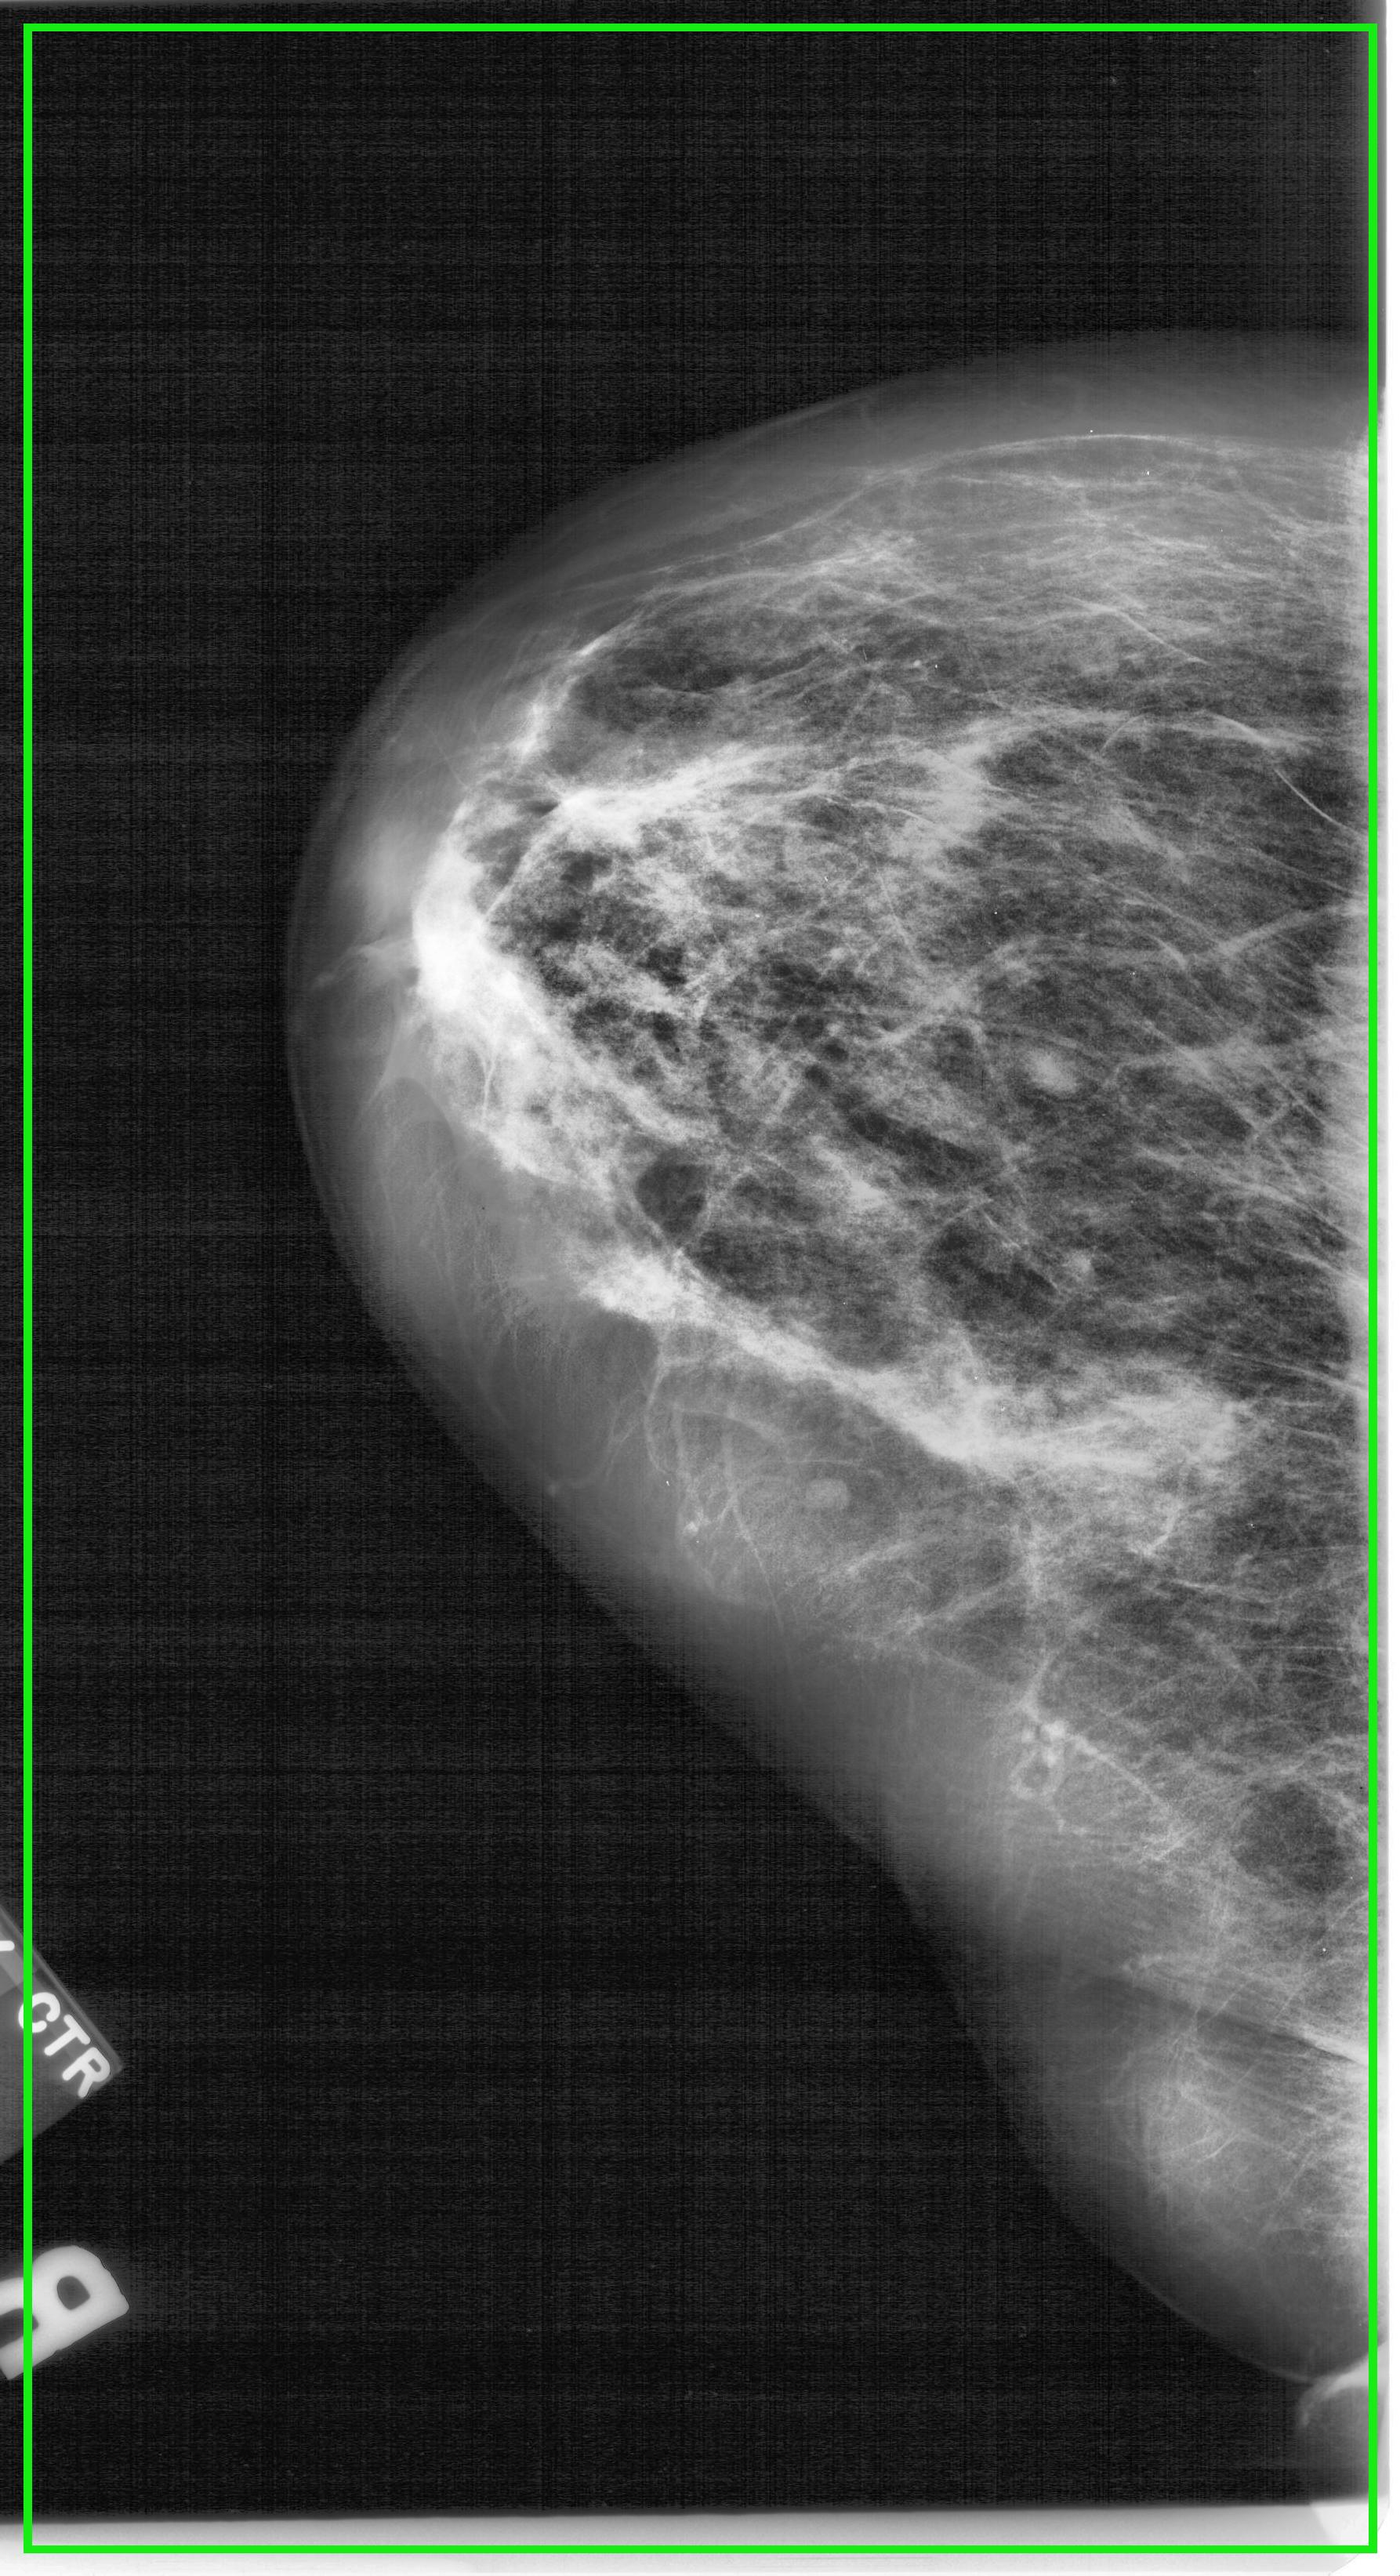
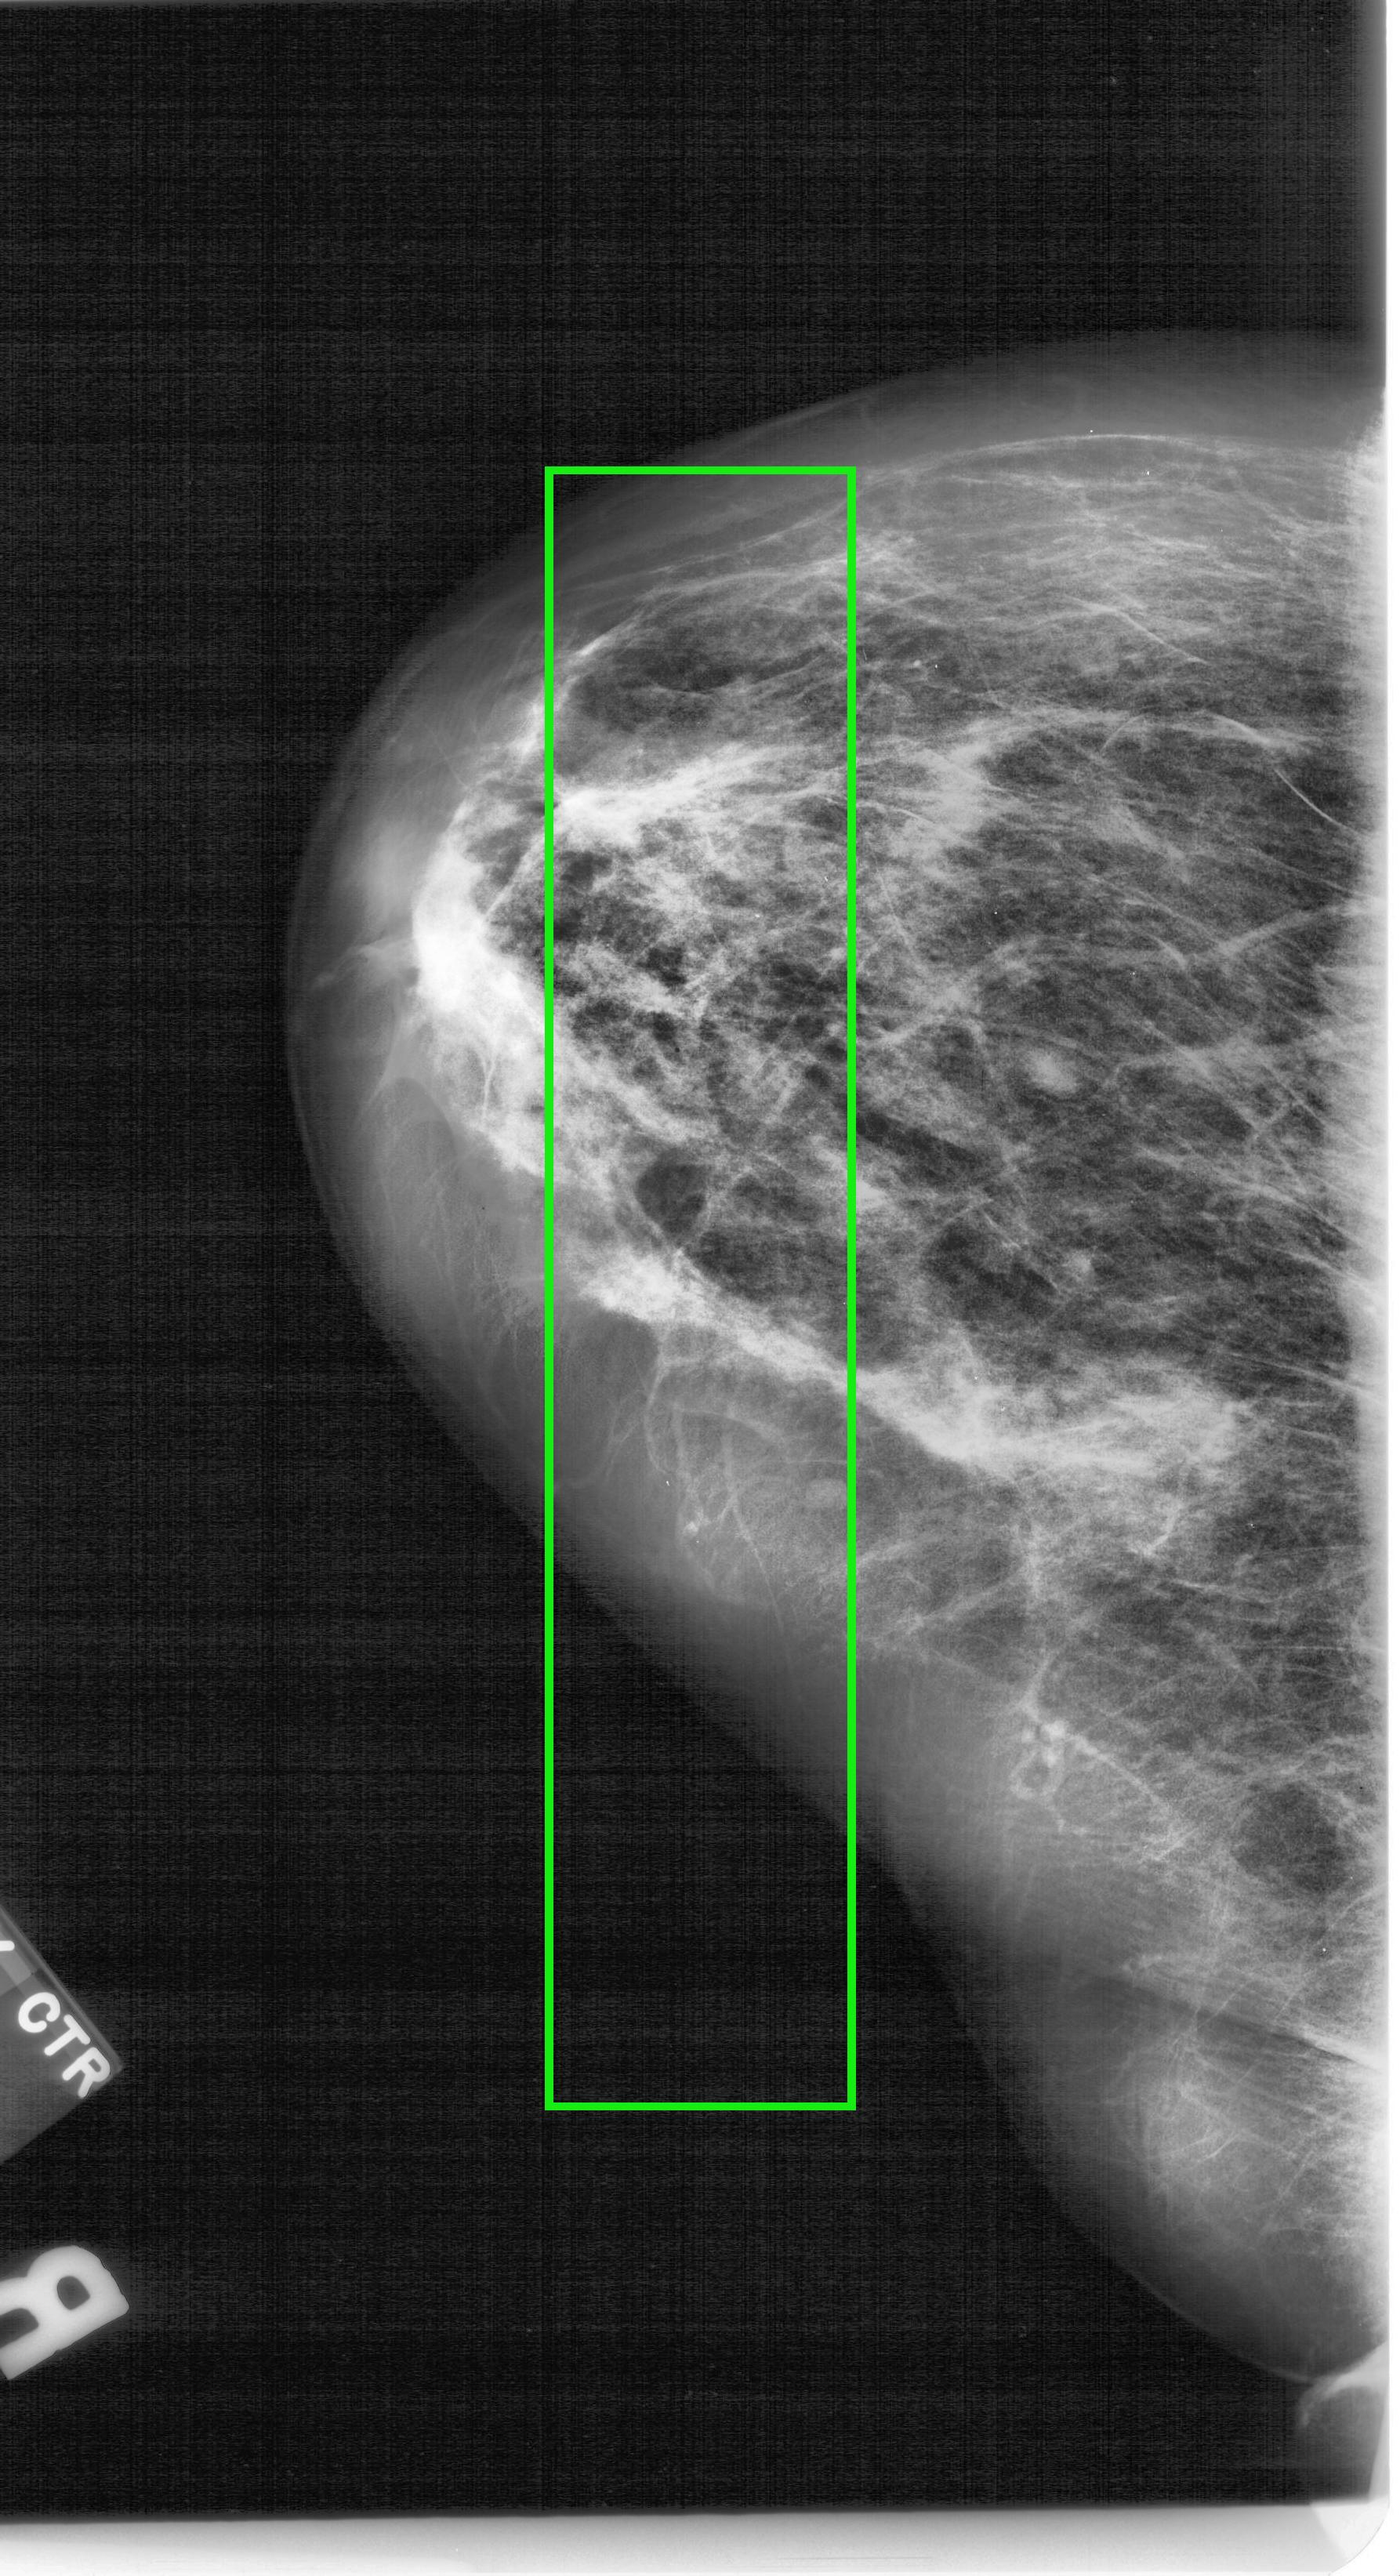
Modiifcacion borde diagnostico imagenes

Changed region(s): [[0.0, 0.0, 0.9854, 0.9933], [0.3695, 0.1552, 0.6159, 0.8381]]

diff --git a/resources/js/Pages/Diagnosticos/parcials/Formulario.vue b/resources/js/Pages/Diagnosticos/parcials/Formulario.vue
@@ -129,6 +129,10 @@ const generarDiagnostico = async () => {
 };
 
 const generaArchivo2 = async (url) => {
+    let array_url = url.split("?");
+    console.log(url);
+    url = array_url[0];
+    console.log(url);
     const response = await axios.get(url, { responseType: "blob" });
     // Obtener la extensión del archivo desde la URL
     const extension = url.split(".").pop(); // Obtener la extensión del archivo

diff --git a/app/Http/Controllers/DiagnosticoController.php b/app/Http/Controllers/DiagnosticoController.php
@@ -65,19 +65,21 @@ class DiagnosticoController extends Controller
             $filename = $image->getClientOriginalName();
             $target_path = public_path('imgs/procesamiento/' . $filename);
 
-            // Procesar la imagen
-            $this->addBorderToImage($image, $target_path);
+
 
             $diagnostico = "NO TIENE CANCER";
             try {
                 $diagnostico = $this->getDiagnostico($filename);
+                $target_path = public_path('imgs/procesamiento/' . $filename);
+                // Procesar la imagen
+                $this->addBorderToImage($image, $target_path, $diagnostico);
             } catch (\Exception $e) {
                 Log::debug($e->getMessage());
             }
 
             sleep(2);
             return response()->JSON([
-                "url_imagen2" => asset('imgs/procesamiento/' . $filename),
+                "url_imagen2" => asset('imgs/procesamiento/' . $filename) . '?p=' . random_int(199, 1000),
                 "diagnostico" => $diagnostico
             ]);
         } else {
@@ -97,7 +99,6 @@ class DiagnosticoController extends Controller
         $rango_fallo = [1, 2, 3, 4, 5];
         $rango_sin_cancer = [92, 93, 94, 95, 96, 97, 98, 99, 100];
         $probabilidad = random_int(1, 100);
-        Log::debug("PROBABILIDAD: " . $probabilidad);
 
         if (strpos($nombre, "ben") > -1) {
             if (in_array($probabilidad, $rango_sin_cancer)) {
@@ -114,20 +115,37 @@ class DiagnosticoController extends Controller
         return "CANCER DE MAMA MALIGNO";
     }
 
-    private function addBorderToImage($image, $target_path)
+    private function addBorderToImage($image, $target_path, $diagnostico)
     {
         // Cargar la imagen
         $image_resource = imagecreatefromstring(file_get_contents($image->getPathname()));
 
         // Procesar la imagen
-        $color = imagecolorallocate($image_resource, 23, 237, 21); // Color rojo
+        $color = imagecolorallocate($image_resource, 23, 237, 21);
         $thickness = 10; // Grosor del borde
         imagesetthickness($image_resource, $thickness); // Aplicar grosor del borde
-        $x1 = 35; // Coordenada X del vértice superior izquierdo del rectángulo
-        $y1 = 35; // Coordenada Y del vértice superior izquierdo del rectángulo
-        $x2 = imagesx($image_resource) - 35; // Coordenada X del vértice inferior derecho del rectángulo
-        $y2 = imagesy($image_resource) - 35; // Coordenada Y del vértice inferior derecho del rectángulo
+        $x1 = 700; // Coordenada X del vértice superior izquierdo del rectángulo
+        $y1 = 600; // Coordenada Y del vértice superior izquierdo del rectángulo
+        $x2 = imagesx($image_resource) - 700; // Coordenada X del vértice inferior derecho del rectángulo
+        $y2 = imagesy($image_resource) - 600; // Coordenada Y del vértice inferior derecho del rectángulo
         imagerectangle($image_resource, $x1, $y1, $x2, $y2, $color);
+        if ($diagnostico != 'NO TIENE CANCER') {
+            $circle_color = imagecolorallocate($image_resource, 255, 0, 0);
+            if ($diagnostico == 'CANCER DE MAMA BENIGNO') {
+                $circle_color = imagecolorallocate($image_resource, 230, 230, 0);
+            }
+            $ellipse_thickness = 10; // Grosor del círculo
+            // Coordenadas para el círculo
+            $centerX = imagesx($image_resource)  / 2; // Coordenada X del centro del círculo
+            $centerY = (imagesy($image_resource) / 2) - 200; // Coordenada Y del centro del círculo
+            $width = imagesx($image_resource) / 8; // Ancho del círculo
+            $height = imagesy($image_resource) / 16; // Altura del círculo
+
+            // Dibujar el círculo con grosor
+            for ($i = 0; $i < $ellipse_thickness; $i++) {
+                imageellipse($image_resource, $centerX, $centerY, $width - $i, $height - $i, $circle_color);
+            }
+        }
 
         // Guardar la imagen modificada
         imagejpeg($image_resource, $target_path);

diff --git a/app/Models/Diagnostico.php b/app/Models/Diagnostico.php
@@ -33,12 +33,12 @@ class Diagnostico extends Model
 
     public function getUrlImagen1Attribute()
     {
-        return asset("imgs/diagnosticos/" . $this->imagen1);
+        return asset("imgs/diagnosticos/" . $this->imagen1) . '?p=' . random_int(199, 1000);
     }
 
     public function getUrlImagen2Attribute()
     {
-        return asset("imgs/diagnosticos/" . $this->imagen2);
+        return asset("imgs/diagnosticos/" . $this->imagen2) . '?p=' . random_int(199, 1000);
     }
 
     public function paciente()
